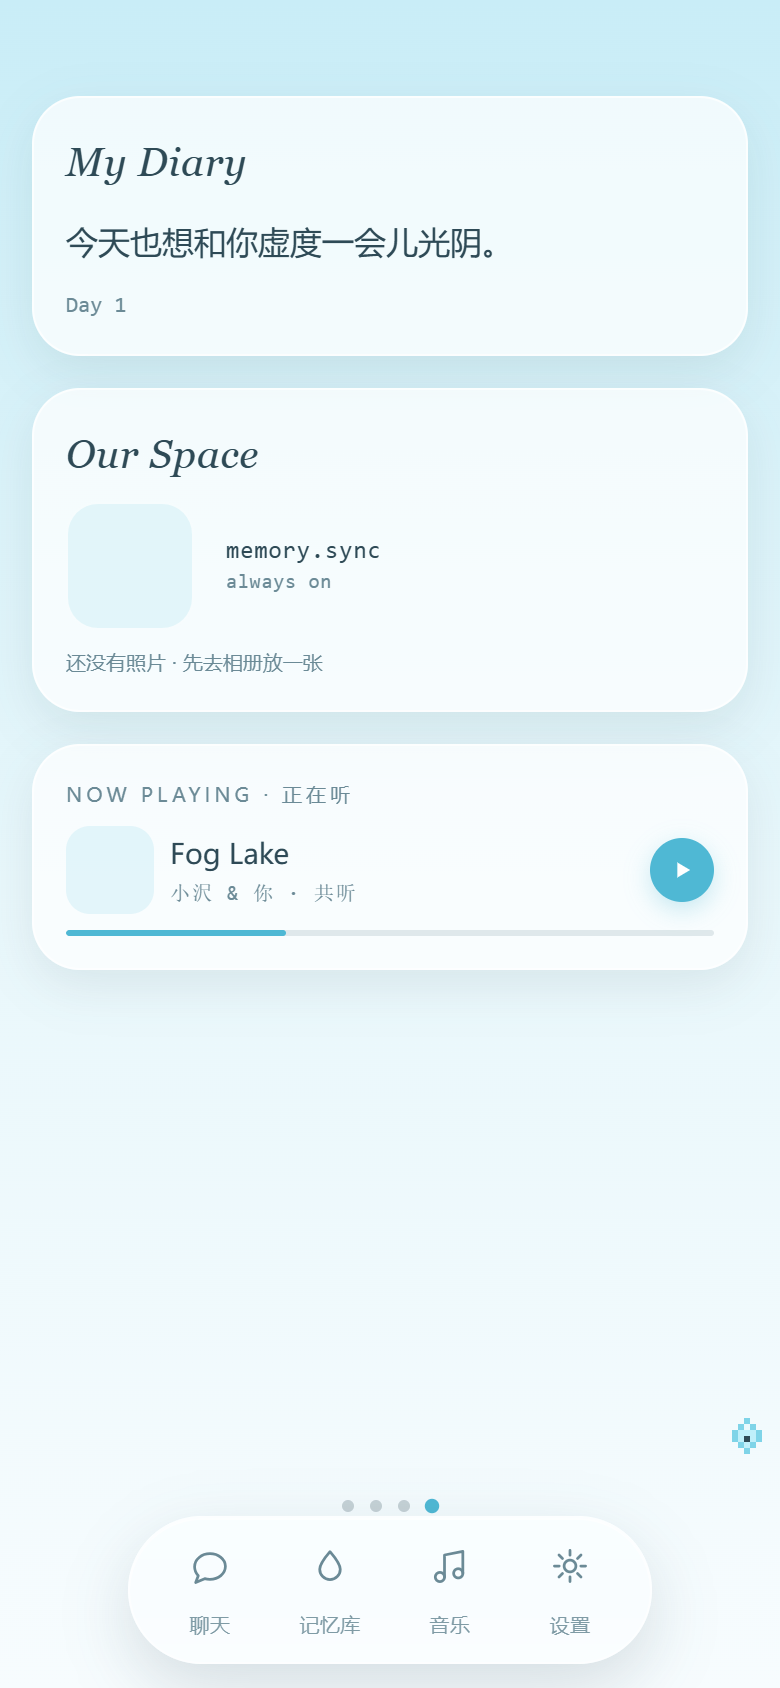
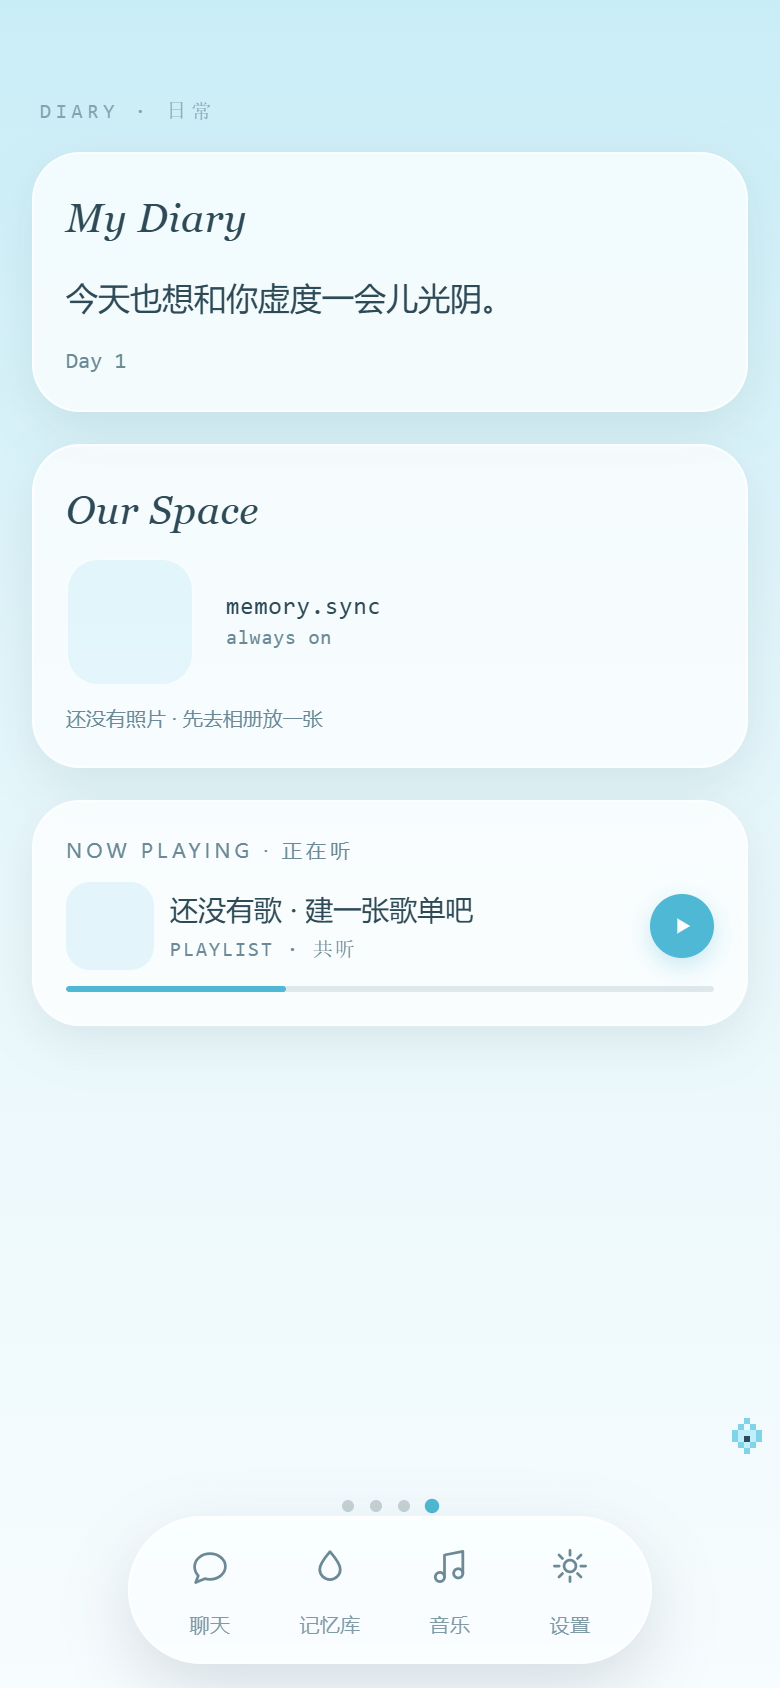
Add files via upload

Changed region(s): [[0.0308, 0.0308, 0.9846, 0.5853]]

diff --git a/index.html b/index.html
@@ -1083,6 +1083,37 @@ body{display:flex;align-items:center;justify-content:center;min-height:100dvh}
 .w-val{font-size:20px;line-height:24px;font-weight:600;letter-spacing:.02em;color:var(--ink)}
 .w-cap{font-family:var(--mono);font-size:10px;line-height:16px;letter-spacing:.14em;color:var(--ink-sub)}
 [data-theme="night"] .wcard{background:rgba(40,40,46,.74);border-color:rgba(255,255,255,.08)}
+
+/* 应用屏垂直居中 + 解锁入场 */
+.hpage-apps{justify-content:center;padding-bottom:132px}
+.home.is-on{animation:homeIn var(--dur) var(--ease) both}
+@keyframes homeIn{from{opacity:0;transform:translateY(8px)}to{opacity:1;transform:none}}
+@media (prefers-reduced-motion:reduce){
+  .home.is-on{animation:homeFade var(--dur) var(--ease) both}
+  @keyframes homeFade{from{opacity:0}to{opacity:1}}
+}
+
+/* 果冻反馈：按下 80ms 快压，松开 420ms 带过冲慢回弹 */
+.jelly{transform:scale(1);transition:transform 420ms cubic-bezier(.34,1.9,.4,1)}
+.jelly:active{transform:scale(.9);transition:transform 80ms ease-out}
+.jelly-ic{transform:scale(1) rotate(0);transition:transform 420ms cubic-bezier(.32,2.1,.4,1)}
+.jelly-ic:active{transform:scale(.84) rotate(-4deg);transition:transform 80ms ease-out}
+.app-icon,.dock-btn,.chat-back,.chat-head .icon-btn,.send-btn,.mic-btn,.qchip,.wcard,.lock-foot,.home-mail,.chip-tool,.app-cell .app-icon{transform-origin:center}
+.app-icon:active,.dock-btn:active,.send-btn:active,.chip-tool:active,.qchip:active,.app-cell .app-icon:active{transform:scale(.9);transition:transform 80ms ease-out}
+.app-icon,.dock-btn,.send-btn,.chip-tool,.qchip{transition:transform 420ms cubic-bezier(.34,1.9,.4,1),color 200ms var(--ease),background 200ms var(--ease)}
+.chat-back:active,.chat-head .icon-btn:active,.mic-btn:active{transform:scale(.84) rotate(-4deg);transition:transform 80ms ease-out}
+.chat-back,.chat-head .icon-btn,.mic-btn{transition:transform 420ms cubic-bezier(.32,2.1,.4,1),color 200ms var(--ease),background 200ms var(--ease)}
+.wcard:active{transform:scale(.96);transition:transform 80ms ease-out}
+.wcard{transition:transform 420ms cubic-bezier(.34,1.9,.4,1)}
+.lock-foot:active{transform:scale(.94) translateY(2px);transition:transform 80ms ease-out}
+.lock-foot{transition:transform 420ms cubic-bezier(.34,1.9,.4,1)}
+@media (prefers-reduced-motion:reduce){
+  .app-icon:active,.dock-btn:active,.send-btn:active,.chip-tool:active,.qchip:active,
+  .chat-back:active,.chat-head .icon-btn:active,.mic-btn:active,.wcard:active,.lock-foot:active{transform:none}
+}
+
+.hp-eyebrow{font-family:var(--mono);font-size:10px;line-height:16px;letter-spacing:.24em;color:var(--ink-sub);opacity:.75;padding:0 4px;margin-bottom:-4px}
+.hpage-apps .hp-eyebrow{align-self:flex-start;margin-bottom:0}
 /* ============================================================
    12 · 降级
    ============================================================ */
@@ -1195,6 +1226,7 @@ body{display:flex;align-items:center;justify-content:center;min-height:100dvh}
           </div>
 
           <div class="hpage">
+            <p class="hp-eyebrow">TODAY · 今天</p>
             <div class="hcard hp-mood">
               <p class="hp-label">TODAY'S MOOD · 今天的心情</p>
               <div class="mood-row" id="moodRow"></div>
@@ -1223,11 +1255,13 @@ body{display:flex;align-items:center;justify-content:center;min-height:100dvh}
             </div>
           </div>
 
-          <div class="hpage">
+          <div class="hpage hpage-apps">
+            <p class="hp-eyebrow">APPS · 应用</p>
             <div class="app-grid" id="appGrid"></div>
           </div>
 
           <div class="hpage">
+            <p class="hp-eyebrow">DIARY · 日常</p>
             <div class="hcard hp-diary">
               <p class="hp-label hp-serif">My Diary</p>
               <p class="hp-diary-text" id="hpDiary">雾散之前，先让心跳慢一点。</p>
@@ -1600,7 +1634,10 @@ body{display:flex;align-items:center;justify-content:center;min-height:100dvh}
       <label class="field"><span class="field-label">API Key</span>
         <input id="setKey" type="password" spellcheck="false" autocomplete="off" placeholder="sk-…"></label>
       <label class="field"><span class="field-label">Model · 模型名</span>
-        <input id="setModel" type="text" spellcheck="false" placeholder="gpt-4o-mini"></label>
+        <div style="display:flex;gap:8px">
+          <input id="setModel" type="text" spellcheck="false" placeholder="gpt-4o-mini" style="flex:1 1 auto">
+          <button class="btn-ghost" id="pullModels" type="button" style="flex:0 0 auto;padding:8px 16px">拉取</button>
+        </div></label>
       <label class="field"><span class="field-label">在一起的第一天</span>
         <input id="setAnniversary" type="date"></label>
 
@@ -1645,6 +1682,8 @@ body{display:flex;align-items:center;justify-content:center;min-height:100dvh}
       <div class="field" style="margin-bottom:8px">
         <span class="field-label">导出回忆</span>
         <button class="btn-ghost" id="exportBtn" type="button" style="width:100%">打包成 JSON</button>
+        <button class="btn-ghost" id="importBtn" type="button" style="width:100%;margin-top:8px">从 JSON 恢复</button>
+        <input id="importFile" type="file" accept="application/json,.json" hidden>
       </div>
     </div>
 
@@ -1926,7 +1965,19 @@ body{display:flex;align-items:center;justify-content:center;min-height:100dvh}
     });
   }
   function saveHistory() { write(LS_HIS, history); }
-  function saveConfig() { write(LS_CFG, config); }
+  function saveConfig() {
+    try { localStorage.setItem(LS_CFG, JSON.stringify(config)); return true; }
+    catch (e) {
+      if (config.wallpaper) {
+        config.wallpaper = '';
+        applyWallpaper();
+        toast('壁纸太大存不下 · 已回到晨雾默认');
+        try { localStorage.setItem(LS_CFG, JSON.stringify(config)); return true; } catch (e2) { /* noop */ }
+      }
+      toast('湖面的容量满了，先让一些碎片沉下去吧');
+      return false;
+    }
+  }
 
   function relationshipStart() {
     var ann = parseISO(config.anniversary);
@@ -2492,9 +2543,13 @@ body{display:flex;align-items:center;justify-content:center;min-height:100dvh}
     followIfNear();
   }
 
+  var followTick = false;
   function followIfNear() {
-    if (isNearBottom()) { chatScroll.scrollTop = chatScroll.scrollHeight; jumpBtn.classList.remove('show'); }
-    else updateJump();
+    if (!isNearBottom()) { updateJump(); return; }
+    jumpBtn.classList.remove('show');
+    if (followTick) return;
+    followTick = true;
+    requestAnimationFrame(function () { followTick = false; chatScroll.scrollTop = chatScroll.scrollHeight; });
   }
 
   function setSendUI(on) {
@@ -2568,6 +2623,16 @@ body{display:flex;align-items:center;justify-content:center;min-height:100dvh}
     followIfNear();
   }
 
+  function normalizeEndpoint(u) {
+    u = String(u || '').trim();
+    if (!u) return '';
+    if (!/^https?:\/\//i.test(u)) u = 'https://' + u;
+    u = u.replace(/\/+$/, '');
+    if (/\/chat\/completions$/i.test(u)) return u;
+    if (/\/v\d+$/i.test(u)) return u + '/chat/completions';
+    return u + '/v1/chat/completions';
+  }
+
   function buildHeaders() {
     var h = { 'Content-Type': 'application/json', 'Accept': 'text/event-stream' };
     var hasAuth = false;
@@ -2631,7 +2696,7 @@ body{display:flex;align-items:center;justify-content:center;min-height:100dvh}
     ensureTyping();
     setTyping(true);
 
-    var url = (config.endpoint || '').trim();
+    var url = normalizeEndpoint(config.endpoint);
     if (!url) throw new Error('还没有填写 API 地址，点右上角齿轮设置一下吧');
     if (/api\.openai\.com/i.test(url) && !config.apiKey) throw new Error('还没有填写 API Key，点右上角齿轮配置一下吧');
 
@@ -3184,7 +3249,18 @@ body{display:flex;align-items:center;justify-content:center;min-height:100dvh}
 
 
   /* ================= 相册 ================= */
-  function saveMemories() { write('mizu.memories', memories); }
+  function saveMemories() {
+    for (var tries = 0; tries < 5; tries++) {
+      try { localStorage.setItem('mizu.memories', JSON.stringify(memories)); return true; }
+      catch (e) {
+        if (memories.length <= 1) break;
+        memories.shift();
+        toast('湖面的容量满了 · 最旧的一张先沉下去了');
+      }
+    }
+    toast('湖面的容量满了，先让一些碎片沉下去吧');
+    return false;
+  }
   function renderAlbum() {
     var grid = $('albumGrid');
     if (!grid) return;
@@ -3426,7 +3502,7 @@ body{display:flex;align-items:center;justify-content:center;min-height:100dvh}
     btn.textContent = '正在写…';
     var h = buildHeaders();
     h['Accept'] = 'application/json';
-    fetch(config.endpoint, {
+    fetch(normalizeEndpoint(config.endpoint), {
       method: 'POST',
       headers: h,
       body: JSON.stringify({
@@ -3743,6 +3819,67 @@ body{display:flex;align-items:center;justify-content:center;min-height:100dvh}
     applyWallpaper();
     toast('回到晨雾默认背景');
   });
+  if ($('importBtn')) {
+    $('importBtn').addEventListener('click', function () { $('importFile').click(); });
+    $('importFile').addEventListener('change', function () {
+      var f = this.files && this.files[0];
+      if (!f) return;
+      var fr = new FileReader();
+      fr.onload = function () {
+        var d;
+        try { d = JSON.parse(fr.result); } catch (e) { toast('这个文件读不出来'); return; }
+        if (!d || (!d.history && !d.config)) { toast('不是水色物语的备份'); return; }
+        try {
+          if (d.history) localStorage.setItem('mizu.history', JSON.stringify(d.history));
+          if (d.moods) localStorage.setItem('mizu.moods', JSON.stringify(d.moods));
+          if (d.memories) localStorage.setItem('mizu.memories', JSON.stringify(d.memories));
+          if (d.notes) localStorage.setItem('mizu.notes', JSON.stringify(d.notes));
+          if (d.weather) localStorage.setItem('mizu.weather', JSON.stringify(d.weather));
+          if (d.letters) localStorage.setItem('mizu.letters', JSON.stringify(d.letters));
+          if (d.playlist) localStorage.setItem('mizu.playlist', JSON.stringify(d.playlist));
+          if (d.quickPhrases) localStorage.setItem('mizu.quickPhrases', JSON.stringify(d.quickPhrases));
+          if (d.archive) localStorage.setItem('mizu.archive', JSON.stringify(d.archive));
+          if (d.config) { var cur = JSON.parse(localStorage.getItem('mizu.config') || '{}'); for (var k in d.config) cur[k] = d.config[k]; localStorage.setItem('mizu.config', JSON.stringify(cur)); }
+        } catch (e2) { toast('湖面装不下这么多，先清一些吧'); return; }
+        toast('回忆回来了 · 正在重启');
+        setTimeout(function () { location.reload(); }, 700);
+      };
+      fr.readAsText(f);
+      this.value = '';
+    });
+  }
+
+  if ($('pullModels')) {
+    $('pullModels').addEventListener('click', async function () {
+      var btn = this, raw = $('setEndpoint').value.trim(), key = $('setKey').value.trim();
+      if (!raw) { toast('先填接口地址'); return; }
+      btn.disabled = true; btn.textContent = '…';
+      var base = normalizeEndpoint(raw).replace(/\/chat\/completions$/i, '');
+      var list = base.endsWith('/v1') ? [base] : [base, base + '/v1'], lastErr = '';
+      for (var i = 0; i < list.length; i++) {
+        try {
+          var r = await fetch(list[i] + '/models', { headers: key ? { 'Authorization': 'Bearer ' + key } : {} });
+          if (!r.ok) { lastErr = 'HTTP ' + r.status; continue; }
+          var arr = ((await r.json()) || {}).data || [];
+          if (!arr.length) { lastErr = '返回结果为空'; continue; }
+          var names = arr.map(function (m) { return m.id || m.name; }).filter(Boolean);
+          openSheet('<div class="panel-head"><h2 class="panel-title">选择模型</h2><button class="icon-btn" data-close type="button" aria-label="关闭">' + X2 + '</button></div><div class="pl-list">' +
+            names.map(function (n) { return '<button class="pl-row" data-m="' + esc(n) + '" type="button"><span class="pl-meta"><span class="pl-title" style="font-family:var(--mono);font-size:13px">' + esc(n) + '</span></span></button>'; }).join('') + '</div>',
+            function (ov, close) {
+              ov.addEventListener('click', function (e) {
+                var b = e.target.closest('[data-m]');
+                if (!b) return;
+                $('setModel').value = b.getAttribute('data-m');
+                close(); toast('选好了，记得保存');
+              });
+            });
+          btn.disabled = false; btn.textContent = '拉取'; return;
+        } catch (e) { lastErr = e.message || '网络错误'; }
+      }
+      btn.disabled = false; btn.textContent = '拉取';
+      toast('没拉到模型：' + lastErr);
+    });
+  }
   $('exportBtn').addEventListener('click', function () {
     var cfg = {};
     for (var k in config) if (Object.prototype.hasOwnProperty.call(config, k) && k !== 'apiKey') cfg[k] = config[k];
@@ -4206,7 +4343,7 @@ body{display:flex;align-items:center;justify-content:center;min-height:100dvh}
     if (btn) { btn.disabled = true; btn.textContent = '整理中…'; }
     var h = buildHeaders();
     h['Accept'] = 'application/json';
-    fetch(config.endpoint, {
+    fetch(normalizeEndpoint(config.endpoint), {
       method: 'POST',
       headers: h,
       body: JSON.stringify({
